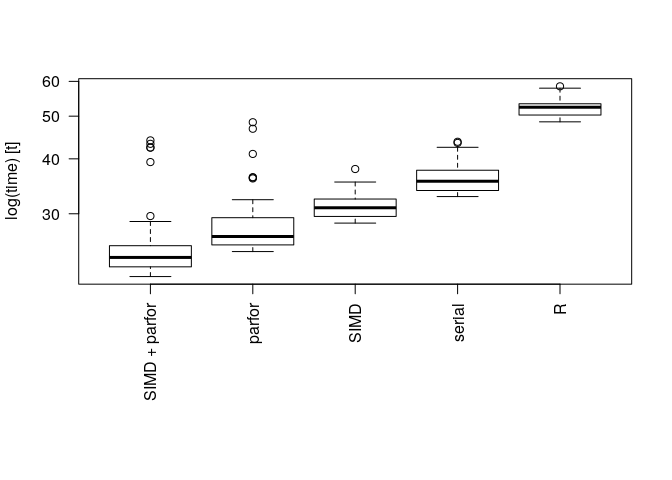
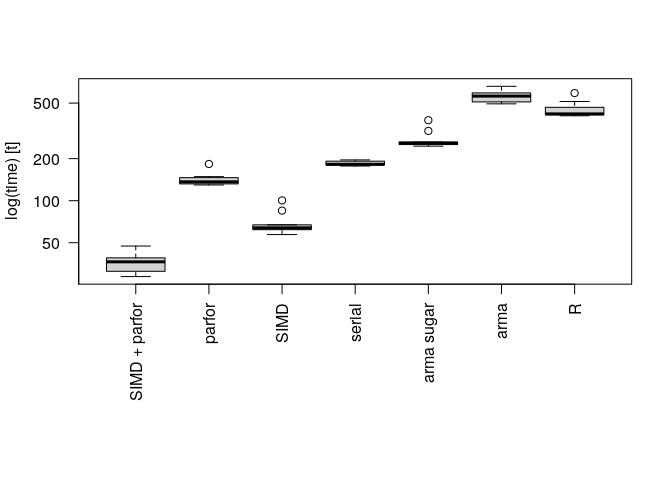
SIMD now is working (~12 times faster than R, and 5 than serial implementation using SIMD and multi-threading)

diff --git a/norm.cpp b/norm.cpp
@@ -1,22 +1,58 @@
-#include <Rcpp.h>
+#include <RcppArmadillo.h>
 #include <omp.h>
 using namespace Rcpp;
 
 // [[Rcpp::plugins(openmp)]]
+// [[Rcpp::depends(RcppArmadillo)]]
 
 // [[Rcpp::export]]
-NumericMatrix dist_for(const NumericVector & x, int N, int M) {
+arma::mat dist_for_arma1(const arma::mat & x, int N, int M) {
   
-  // NumericVector ans(x.size(), 0.0);
-  // unsigned int N = x.nrow(), M = x.ncol();
-  const double * rowi = (const double *) &x[0];
-  const double * rowj = (const double *) &x[0];
+  arma::mat ans(N, N);
+  for (int i = 0; i < N; ++i)
+    for (int j = 0; j < i; ++j) {
+      ans(i, j) = 0.0;
+      for (int k = 0; k < M; ++k)
+        ans(i, j) += pow(x(i, k) - x(j, k), 2.0);
+      ans(i, j) = sqrt(ans(i, j));
+      ans(j, i) = ans(i, j);
+    }
+    
+    return ans;
+  
+}
+
+// [[Rcpp::export]]
+arma::mat dist_for_arma2(const arma::mat & x, int N, int M) {
+  
+  arma::mat ans(N, N);
+  for (int i = 0; i < N; ++i)
+    for (int j = 0; j < i; ++j) {
+      ans(i,j) = sqrt(
+        arma::accu(arma::pow(x.row(i) - x.row(j), 2.0))
+      );
+      ans(j, i) = ans(i, j);
+    }
+    
+    return ans;
+  
+}
+
+// [[Rcpp::export]]
+NumericMatrix dist_for(const NumericMatrix & x, int N, int M) {
+  
+  double x_[N*M];
+  int counter = 0;
+  for (int i = 0; i < N; ++i)
+    for(int j = 0; j < M; ++j)
+      x_[counter++] = x(i,j);
+  
   NumericMatrix ans(N, N);
   for (int i = 0; i < N; ++i)
     for (int j = 0; j < i; ++j) {
       ans(i, j) = 0.0;
       for (int k = 0; k < M; ++k)
-        ans(i, j) += pow(rowi[i + k * N] - rowj[j + k * N], 2.0);
+        ans(i, j) += pow(x_[i*M + k] - x_[j*M + k], 2.0);
       ans(i, j) = sqrt(ans(i, j));
       ans(j, i) = ans(i, j);
     }
@@ -26,23 +62,26 @@ NumericMatrix dist_for(const NumericVector & x, int N, int M) {
 }
 
 // [[Rcpp::export]]
-NumericMatrix dist_simd(const NumericVector & x, int N, int M, int ncores = 4) {
-  
+NumericMatrix dist_simd(const NumericMatrix & x, int N, int M, int ncores = 4) {
   
   omp_set_num_threads(ncores);
+  
+  double x_[N*M];
+  int counter = 0;
+  for (int i = 0; i < N; ++i)
+    for(int j = 0; j < M; ++j)
+      x_[counter++] = x(i,j);
   
   // NumericVector ans(x.size(), 0.0);
   // unsigned int N = x.nrow(), M = x.ncol();
   NumericMatrix ans(N, N); 
-  const double * rowi = (const double *) &x[0];
-  const double * rowj = (const double *) &x[0];
   for (int i = 0; i < N; ++i)
     for (int j = 0; j < i; ++j) {
       double tmp = 0.0;
       ans(i, j) = 0.0;
 #pragma omp simd reduction(+:tmp) 
       for (int k = 0; k < M; ++k)
-        tmp += pow(rowi[i + k * N] - rowj[j + k * N], 2.0);
+        tmp += pow(x_[i*M + k] - x_[j*M + k], 2.0);
       ans(i, j) = sqrt(tmp);
       ans(j, i) = ans(i, j);
     }
@@ -51,51 +90,58 @@ NumericMatrix dist_simd(const NumericVector & x, int N, int M, int ncores = 4) {
   
 }
 
+
+
 // [[Rcpp::export]]
-NumericMatrix dist_omp_simd(const NumericVector & x, int N, int M, int ncores = 4) {
+NumericMatrix dist_omp_simd(const NumericMatrix & x, int N, int M, int ncores = 4) {
   
   omp_set_num_threads(ncores);
   
-  // NumericVector ans(x.size(), 0.0);
-  // unsigned int N = x.nrow(), M = x.ncol();
-  NumericMatrix ans(N, N); 
-  const double * rowi = (const double *) &x[0];
-  const double * rowj = (const double *) &x[0];
-#pragma omp parallel for shared(rowi,rowj,N,M) collapse(1)
+  float x_[N*M];
+  int counter = 0;
   for (int i = 0; i < N; ++i)
+    for(int j = 0; j < M; ++j)
+      x_[counter++] = x(i,j);
+  
+  NumericMatrix ans(N,N);
+#pragma omp parallel for shared(x_,N,M) collapse(1)
+  for (int i = 0; i < N; ++i) {
     for (int j = 0; j < i; ++j) {
       double tmp = 0.0;
-      ans(i, j) = 0.0;
-#pragma omp simd reduction(+:tmp) 
+#pragma omp simd reduction(+:tmp) simdlen(4) 
       for (int k = 0; k < M; ++k)
-        tmp += pow(rowi[i + k * N] - rowj[j + k * N], 2.0);
-      ans(i, j) = sqrt(tmp);
-      ans(j, i) = ans(i, j);
+        tmp += pow(x_[i*M + k] - x_[j*M + k], 2.0);
+      ans(i,j) = sqrt(tmp);
+      ans(j,i) = ans(i,j);
     }
-    
-    return ans;
+  }
+  
+  return ans;
   
 }
 
 // [[Rcpp::export]]
-NumericMatrix dist_omp(const NumericVector & x, int N, int M, int ncores = 4) {
+NumericMatrix dist_omp(const NumericMatrix & x, int N, int M, int ncores = 4) {
   
   omp_set_num_threads(ncores);
   
-  // NumericVector ans(x.size(), 0.0);
-  // unsigned int N = x.nrow(), M = x.ncol();
-  NumericMatrix ans(N, N); 
-  const double * rowi = (const double *) &x[0];
-  const double * rowj = (const double *) &x[0];
-#pragma omp parallel for shared(rowi,rowj,N,M) collapse(1)
+  float x_[N*M];
+  int counter = 0;
   for (int i = 0; i < N; ++i)
+    for(int j = 0; j < M; ++j)
+      x_[counter++] = x(i,j);
+  NumericMatrix ans(N, N); 
+  
+#pragma omp parallel for shared(x_,N,M) collapse(1)
+  for (int i = 0; i < N; ++i) {
     for (int j = 0; j < i; ++j) {
       ans(i, j) = 0.0;
       for (int k = 0; k < M; ++k)
-        ans(i, j) += pow(rowi[i + k * N] - rowj[j + k * N], 2.0);
+        ans(i, j) += pow(x_[i*M + k] - x_[j*M + k], 2.0);
       ans(i, j) = sqrt(ans(i,j));
       ans(j, i) = ans(i, j);
     }
+  }
     
     return ans;
   

diff --git a/README.md b/README.md
@@ -11,18 +11,32 @@ here we redefined it using
 [`Rcpp`](https://cran.r-project.org/package=Rcpp). The program is
 
 The file [norm.cpp](norm.cpp) contains the C++ source code for the dist
-functions.
+functions. The compiles function are:
+
+  - `dist_omp_simd` Using the pragma directives `parallel for` and
+    `simd`.
+
+  - `dist_omp` Using the pragma `parallel for`.
+
+  - `dist_simd` Using the pragma `simd`.
+
+  - `dist_for` no directives.
+
+  - `dist_for_arma2` Using Armadillo with vectorized functions.
+
+  - `dist_for_arma1` Armadillo implementation with for-loops.
 
 ## Speed benchmark
 
 Whe using multicore, I’m only using 2 cores
 
 ``` r
+Sys.setenv("PKG_CXXFLAGS"=paste("-fopenmp -O2 -mavx2 -march=core-avx2 -mtune=core-avx2"))
 Rcpp::sourceCpp("norm.cpp")
 
 library(microbenchmark)
 set.seed(718243)
-N <- 200
+N <- 500
 M <- 1000
 x <- matrix(runif(N * M), nrow = N)
 
@@ -31,19 +45,41 @@ x <- matrix(runif(N * M), nrow = N)
   `parfor`        = dist_omp(x, N, M, 2),
   `SIMD`          = dist_simd(x, N, M),
   `serial`        = dist_for(x, N, M),
-  R               = dist(x),
-  times           = 200,
+  `arma sugar`    = dist_for_arma2(x,N,M),
+  `arma`          = dist_for_arma1(x,N,M),
+  R               = as.matrix(dist(x)),
+  times           = 10,
   unit            = "relative"
 ))
 ```
 
     ## Unit: relative
-    ##           expr      min       lq     mean   median       uq       max neval
-    ##  SIMD + parfor 1.000000 1.000000 1.000000 1.000000 1.000000 1.0000000   200
-    ##         parfor 1.139602 1.121602 1.126302 1.115695 1.157925 1.0997163   200
-    ##           SIMD 1.322806 1.302088 1.266197 1.296907 1.276461 0.8608174   200
-    ##         serial 1.519825 1.491468 1.462143 1.489836 1.484320 0.9928373   200
-    ##              R 2.247616 2.213546 2.115620 2.194877 2.101770 1.3271068   200
+    ##           expr       min        lq      mean    median        uq       max
+    ##  SIMD + parfor  1.000000  1.000000  1.000000  1.000000  1.000000  1.000000
+    ##         parfor  4.525767  4.228444  3.956531  3.741240  3.754374  3.870529
+    ##           SIMD  1.998500  1.986318  1.924191  1.752240  1.722760  2.122128
+    ##         serial  6.187921  5.770530  5.179253  4.993561  4.923769  4.139801
+    ##     arma sugar  8.582125  8.084118  7.641437  7.085500  6.739811  7.963009
+    ##           arma 17.258725 16.340381 15.588027 15.380473 15.175025 13.925154
+    ##              R 14.175100 13.198820 12.506306 11.462402 11.972508 12.457738
+    ##  neval
+    ##     10
+    ##     10
+    ##     10
+    ##     10
+    ##     10
+    ##     10
+    ##     10
+
+As a reference, the elapsed time in ms for R and SIMD + parfor is
+
+    ## Unit: milliseconds
+    ##           expr       min        lq      mean    median        uq       max
+    ##  SIMD + parfor  28.62259  31.20543  35.82479  36.48984  38.97481  47.33635
+    ##              R 405.72800 411.87482 448.03582 418.26125 466.62621 589.70381
+    ##  neval
+    ##     10
+    ##     10
 
 Overall, in my machine, the SIMD+parfor combo outperforms all the
 others. Let’s see if the results are equivalent. At the very least, we
@@ -59,25 +95,35 @@ ans1d <- dist_for(x, N, M)
 range(ans0 - ans1b)
 ```
 
-    ## [1] 0 0
+    ## [1] -1.071123e-07  9.346249e-08
 
 ``` r
 range(ans1a - ans1b)
 ```
 
-    ## [1] -3.197442e-14  2.842171e-14
+    ## [1] 0.000000e+00 5.151435e-14
 
 ``` r
 range(ans1b - ans1c)
 ```
 
-    ## [1] -2.842171e-14  3.197442e-14
+    ## [1] -9.346248e-08  1.071123e-07
 
 ``` r
 range(ans1c - ans1d)
 ```
 
-    ## [1] -3.197442e-14  2.842171e-14
+    ## [1] -2.842171e-14  3.197442e-14
+
+The programs were compiled on a machine with an [Intel(R) Core(TM)
+i5-7200U CPU @ 2.50GHz
+processor](https://ark.intel.com/content/www/us/en/ark/products/95443/intel-core-i5-7200u-processor-3m-cache-up-to-3-10-ghz.html)
+which works with [AVX2
+instructions](https://en.wikipedia.org/wiki/Advanced_Vector_Extensions#CPUs_with_AVX2),
+i.e. we can literally vectorize 4 operations at a time (on top of
+multi-threading). One important thing to consider is that for this to
+work we had to generate a copy of the R matrix into a double vector so
+that elements were contiguous (which is important for SIMD).
 
 Finally, the
 [`microbenchmark`](https://cran.r-project.org/package=microbenchmark) R
@@ -100,7 +146,7 @@ par(op)
 sessionInfo()
 ```
 
-    ## R version 3.6.3 (2020-02-29)
+    ## R version 4.0.2 (2020-06-22)
     ## Platform: x86_64-pc-linux-gnu (64-bit)
     ## Running under: Ubuntu 18.04.4 LTS
     ## 
@@ -123,7 +169,11 @@ sessionInfo()
     ## [1] microbenchmark_1.4-7
     ## 
     ## loaded via a namespace (and not attached):
-    ##  [1] compiler_3.6.3   magrittr_1.5     tools_3.6.3      htmltools_0.4.0 
-    ##  [5] yaml_2.2.0       Rcpp_1.0.3       codetools_0.2-16 stringi_1.4.5   
-    ##  [9] rmarkdown_2.1    knitr_1.27       stringr_1.4.0    xfun_0.12       
-    ## [13] digest_0.6.23    rlang_0.4.4      evaluate_0.14
+    ##  [1] compiler_4.0.2            magrittr_1.5             
+    ##  [3] tools_4.0.2               htmltools_0.5.0          
+    ##  [5] RcppArmadillo_0.9.900.1.0 yaml_2.2.1               
+    ##  [7] Rcpp_1.0.5                codetools_0.2-16         
+    ##  [9] stringi_1.4.6             rmarkdown_2.3            
+    ## [11] knitr_1.29                stringr_1.4.0            
+    ## [13] xfun_0.15                 digest_0.6.25            
+    ## [15] rlang_0.4.6               evaluate_0.14
